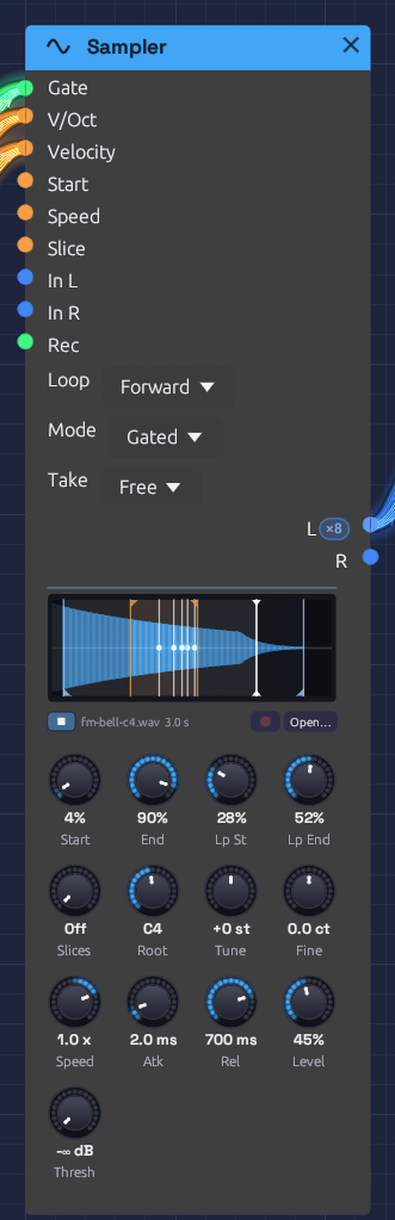
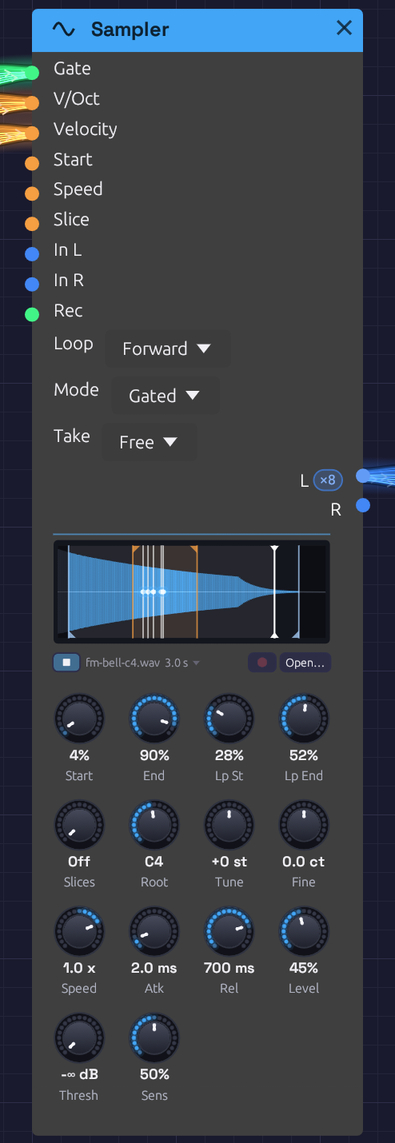
[Docs] Re-shoot the Sampler's module image with Sens, by script
- module_images.py: a MODULES table (patch, module, zoom, width, cues) and
  --check, as recipe_images.py and manual_images.py have. Each close-up is
  aimed from a probe layout, posed by its cues and cropped to the node with
  22 pt at the sides for cable stubs; `face x y` in a pointer cue aims at a
  point on the face, so a press survives the node moving
- tools/showcase/modules/sampler.json holds the caption's moment: the bell
  looped between Lp St and Lp End, a five-note chord held, and a cue from
  ▶ out in the tail
- module-sampler.png re-shot: its foot row now shows Sens beside Thresh
- Only the Sampler is scripted; #199 brings the other close-ups across

Closes #195

Claude-Session: https://claude.ai/code/session_01RDRPwpCZGZEPkxCuAvH7fo

diff --git a/tools/showcase/module_images.py b/tools/showcase/module_images.py
@@ -1,0 +1,139 @@
+"""Re-shoots the manual's module close-ups (docs/src/images/module-<name>.png),
+each from a small patch in tools/showcase/modules/ that holds the moment its
+caption describes.
+
+    python tools/showcase/module_images.py [name ...]
+    python tools/showcase/module_images.py --check [name ...]
+
+Each close-up in MODULES names its patch, the module pictured, the zoom it's
+drawn at, the width it's saved at and the cues that pose it (a chord held, a
+cue playing). The patch is filmed once to find the module, then again with
+the view aimed at it, and the still is cropped to the node with room at the
+sides for its cable stubs.
+
+Pointer cues aim at the face: `face x y` in a cue stands for the window
+point over (x, y) points from the module's top left, as drawn at zoom 1.
+Read them off a still: (pixel / PPP - margin) / zoom, with the margins below.
+The face's layout shifts a little from one ppp to another, so aim from a
+still filmed at PPP.
+
+Only the Sampler is scripted so far (#195); #199 brings the rest across.
+
+Build into target/capture first, as for shots.py. --check films each one
+the same way but writes nothing, lists the close-ups that no longer match the
+build, and exits 1 if any is stale or missing.
+"""
+
+import re
+import sys
+import tempfile
+from collections import namedtuple
+from pathlib import Path
+
+from PIL import Image
+
+from manual_images import MODULE_FOOT
+from recipe_images import IMAGES, ROOT, SIZE, STALE_FRACTION, aim, changed, film
+
+MODULES_DIR = ROOT / "tools" / "showcase" / "modules"
+PPP = 2.0
+# Room kept round the node, in points at zoom 1: at the sides for the cable
+# stubs, above and below to show it's the whole node
+SIDE = 22
+TOP = 6
+
+# `patch` is tools/showcase/modules/<patch>.json. The cues run up to the
+# still at 0.0; the view is aimed before the first of them. palette=False
+# keeps full colour, for faces whose gradients band in 256 colours
+Module = namedtuple("Module", "patch module zoom width cues palette", defaults=(True,))
+MODULES = {
+    # The bell, looped between Lp St and Lp End, held as a five-note chord with a cue
+    # (▶ beside its name) playing over it: the voices' dots go round the loop
+    # while the cue's line runs on towards End
+    "sampler": Module("sampler", "source.sampler", 0.9, 395, """
+        -4.0 play
+        -3.0 chord 48,55,60,64,67 90 6.0
+        -2.6 move face 24 453 0.2
+        -2.3 press
+        -2.25 release
+        -2.2 move face 600 300 0.2
+    """, palette=False),
+}
+
+
+def module_rect(lay, name):
+    """Where the pictured module is drawn, in patch space."""
+    module = MODULES[name].module
+    rect = next((m["rect"] for m in lay["modules"] if m["module_id"] == module), None)
+    if rect is None:
+        raise RuntimeError(f"{name}: no {module} in {MODULES[name].patch}.json")
+    return rect
+
+
+def script(cues, camera, origin, rect, zoom):
+    """The close-up's cues, aimed at the face, with the view moved to it before
+    the first and the still taken at 0.0."""
+    def at_face(match):
+        x, y = float(match.group(1)), float(match.group(2))
+        return f"{origin[0] + (rect[0] + x) * zoom:.1f} {origin[1] + (rect[1] + y) * zoom:.1f}"
+
+    lines = [re.sub(r"face (-?[\d.]+) (-?[\d.]+)", at_face, line.strip()) for line in cues.strip().splitlines()]
+    first = min([float(line.split()[0]) for line in lines] + [0.0])
+    return "\n".join([f"{first - 0.5:.2f} {camera}"] + lines + ["0.0 layout shot", "0.0 still shot", "0.1 end"]) + "\n"
+
+
+def shoot(name, tmp):
+    """Films a close-up and returns it, cropped and scaled."""
+    shot = MODULES[name]
+    patch = MODULES_DIR / f"{shot.patch}.json"
+    probe = Path(tmp) / f"{name}-probe"
+    probe.mkdir()
+    lay = film(patch, probe, SIZE, PPP, "0.0 layout shot\n0.1 end\n")
+    rect = module_rect(lay, name)
+    camera, origin = aim(lay["view"], ((rect[0] + rect[2]) / 2, (rect[1] + rect[3] + MODULE_FOOT) / 2), shot.zoom)
+    out = Path(tmp) / name
+    out.mkdir()
+    lay = film(patch, out, SIZE, PPP, script(shot.cues, camera, origin, rect, shot.zoom))
+    x0, y0, x1, y1 = module_rect(lay, name)
+    view = lay["view"]
+    zoom, (ox, oy) = view["zoom"], view["origin"]
+    box = [(ox + (x0 - SIDE) * zoom) * PPP, (oy + (y0 - TOP) * zoom) * PPP,
+           (ox + (x1 + SIDE) * zoom) * PPP, (oy + (y1 + MODULE_FOOT + TOP) * zoom) * PPP]
+    width, height = Image.open(out / "shot.ppm").size
+    if box[0] < 0 or box[1] < 0 or box[2] > width or box[3] > height:
+        raise RuntimeError(f"{name}: the node runs out of the window at zoom {shot.zoom}")
+    image = Image.open(out / "shot.ppm").convert("RGB").crop([round(v) for v in box])
+    image = image.resize((shot.width, round(image.height * shot.width / image.width)), Image.LANCZOS)
+    if not shot.palette:
+        return image
+    return image.quantize(256, method=Image.Quantize.MEDIANCUT, dither=Image.Dither.NONE)
+
+
+def main(args):
+    check = "--check" in args
+    names = [a for a in args if not a.startswith("--")] or list(MODULES)
+    unknown = [n for n in names if n not in MODULES]
+    if unknown:
+        print(f"unknown: {' '.join(unknown)} (close-ups: {' '.join(MODULES)})", file=sys.stderr)
+        return 2
+    stale = []
+    with tempfile.TemporaryDirectory() as tmp:
+        for name in names:
+            path = IMAGES / f"module-{name}.png"
+            image = shoot(name, tmp)
+            if check:
+                fraction = changed(image, path)
+                verdict = "ok" if fraction <= STALE_FRACTION else ("missing" if not path.exists() else f"stale ({fraction:.1%} changed)")
+                print(f"{name:20} {verdict}")
+                if fraction > STALE_FRACTION:
+                    stale.append(name)
+            else:
+                image.save(path, optimize=True)
+                print(f"{name:20} {image.width}x{image.height}, {path.stat().st_size // 1024} KB")
+    if check and stale:
+        print(f"\nRe-shoot with: python tools/showcase/module_images.py {' '.join(stale)}")
+    return 1 if stale else 0
+
+
+if __name__ == "__main__":
+    sys.exit(main(sys.argv[1:]))

diff --git a/CLAUDE.md b/CLAUDE.md
@@ -232,6 +232,9 @@ python tools/showcase/recipe_images.py --check
 # The same for the interface pictures and the tutorial's finished patch (interface-*.png,
 # tutorial-complete-patch.png), each posed by a short cue script
 python tools/showcase/manual_images.py [name ...]   # --check lists the stale ones
+# ...and the module close-ups (module-<name>.png), each posed by a small patch in
+# tools/showcase/modules/. Only the Sampler so far: #199 brings the rest across
+python tools/showcase/module_images.py [name ...]   # --check lists the stale ones
 # Never stop a capture with taskkill /IM: it closes every open copy of Soba. Kill by PID
 
 # Open a patch at launch (otherwise the First Sound example opens)
